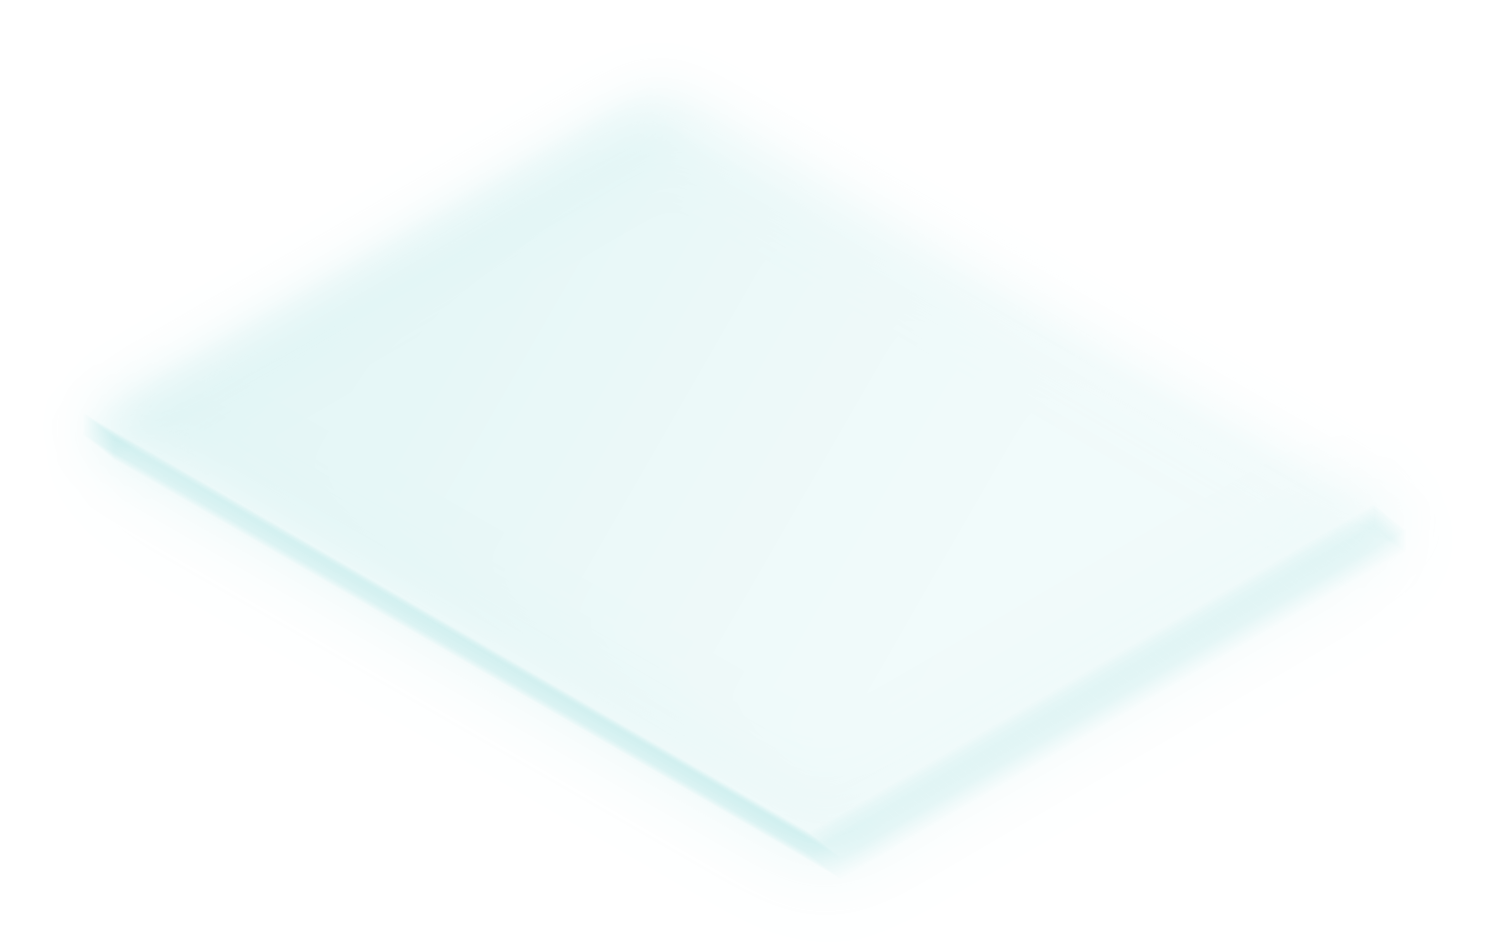
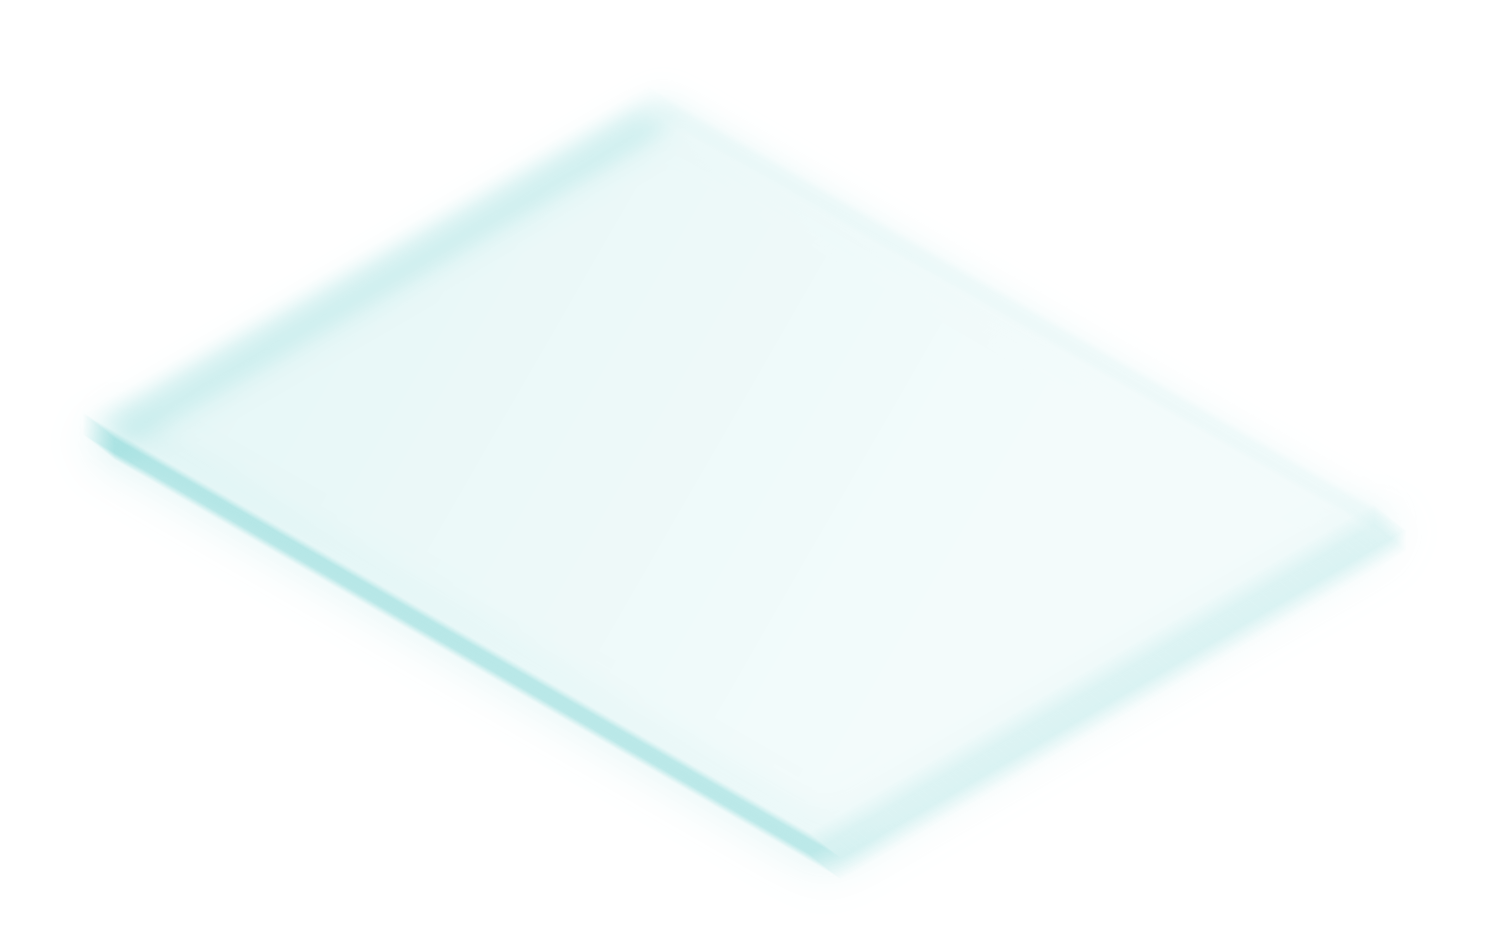
v1012-v1 版本

diff --git a/mockup.html b/mockup.html
@@ -319,6 +319,13 @@
         
       }
 
+      .bg-glass {
+            background: rgba(255, 255, 255, 0.25);   /* 半透明，讓背後透出來 */
+            backdrop-filter: blur(10px) saturate(120%); /* 讓背後模糊並增加對比 */
+            -webkit-backdrop-filter: blur(10px) saturate(120%); /* Safari 相容 */
+            border: 1px solid rgba(255, 255, 255, 0.35);
+            border-radius: 12px;
+      }
 
       </style>
     
@@ -339,7 +346,7 @@
   <body style="visibility: hidden" class="bg-SVGNoise text-IF-text">   
     
     <div id="screen-size-display-tool"   
-          class="fixed top-2 left-8 z-50 
+          class="fixed top-2 left-8 z-[99]
                 w-8 h-8 bg-IF-text-subtle text-center rounded-lg border border-IF-border text-base">
       <div class="block 2xs:hidden">min</div>
       <div class="hidden 2xs:block xs:hidden">2xs</div>
@@ -352,7 +359,7 @@
     </div>
 
     <header id="header" 
-            class="hidden fixed top-0 left-0 z-[60]
+            class=" fixed top-0 left-0 z-[60] 
                    h-12 w-full bg-IF-panel shadow-md">
       <!-- 上方常駐區塊 -->
       <div class="max-w-screen-xl mx-auto  flex items-center justify-between
@@ -366,7 +373,8 @@
         </a>
 
         <!-- 導覽錨點 (桌機版) -->
-        <nav class="hidden gap-8 text-lg text-IF-text
+        <nav class="gap-8 text-lg text-IF-text
+                        hidden
                     md:flex">
           <a href="#advantages" >解決痛點</a>
           <a href="#portfolio" >作品展示</a>
@@ -434,9 +442,9 @@
 
     </header>
 
-    <section id="contact" >
+    <section id="contact" > 
       
-      <!-- 懸浮按鈕 -->
+      <!-- 懸浮按鈕 --> <!--展開特效待調整，不要用兩層-->
       <button id="contactBtn"
               class="group fixed bottom-12  z-40
                      h-16 w-16 rounded-full shadow-md
@@ -472,7 +480,7 @@
                   fixed inset-0 top-12 flex items-center justify-center z-50
                   transition-all duration-300 origin-bottom-right">
         <div  id="contactPanel"
-              class="relative max-h-[80vh] w-[90vw] max-w-xl p-6 rounded-sm shadow-lg bg-white overflow-y-auto">
+              class="relative max-h-[80vh] w-[90vw] max-w-xl p-6 rounded-sm shadow-lg bg-IF-panel overflow-y-auto">
           <button id="PopUpCloseBtn" 
                   class="absolute top-6 right-6 text-2xl
                         text-IF-text-subtle hover:text-IF-text-muted">×</button>
@@ -554,7 +562,7 @@
       <!-- 送出成功彈窗 -->
       <div class="successPopUp
                   fixed top-1/2 left-1/2 -translate-y-1/2  -translate-x-1/2 z-40
-                  w-80 h-40 bg-white rounded-sm shadow-lg p-6 flex flex-col justify-center items-center
+                  w-80 h-40 bg-IF-panel rounded-sm shadow-lg p-6 flex flex-col justify-center items-center
                   transition-all duration-300">
         <button id="successCloseBtn" 
                 class="absolute top-4 right-4 text-2xl
@@ -688,72 +696,53 @@
          class="h-screen snap-y snap-proximity overflow-y-scroll scroll-smooth hide-scrollbar" >
 
       <section id="hero"
-                class="relative w-full h-screen flex-col-center-center snap-start-12 overflow-hidden">
+                class=" relative w-full h-screen flex-col-center-center snap-start-12 overflow-hidden">
 
+        <div class="absolute inset-0 w-full h-full bg-IF-panel opacity-30"></div><!-- 背景 -->
         <!-- 背景圖 -->
-        <div class="relative w-full max-w-screen-xl min-w-[500px] h-screen opacity-70">
-          <div id="hero-line"class="hidden">
-            <div class="w-full h-screen flex-row-between-center hidden md:flex"> 
-              <div class="w-px h-screen bg-gray-300"></div>
+        <div class="relative w-full max-w-screen-xl min-w-[500px] h-full  max-h-[880px]  opacity-70">
+          
 
-              <div class="w-px h-screen bg-gray-300"></div>
-              <div class="w-px h-screen bg-gray-300"></div>
-              <div class="w-px h-screen bg-gray-500"></div>
-              <div class="w-px h-screen bg-gray-300"></div>
-              <div class="w-px h-screen bg-gray-300"></div>
-
-              <div class="w-px h-screen bg-gray-500"></div>
-
-              <div class="w-px h-screen bg-gray-300"></div>
-              <div class="w-px h-screen bg-gray-300"></div>
-              <div class="w-px h-screen bg-gray-500"></div>
-              <div class="w-px h-screen bg-gray-300"></div>
-              <div class="w-px h-screen bg-gray-300"></div>
-
-              <div class="w-px h-screen bg-gray-300"></div>
-            </div>
-          </div>
-
-          <div>
+          <div> <!-- 影子 -->
           
           <img src="./img/hero/item-A_.png" alt="" 
-               class="absolute hero-item  scale-[0.80] md:scale-90 lg:scale-100
+               class="absolute hero-item  scale-[0.80] md:scale-90 lg:scale-100 opacity-50
                       bottom-1/3 translate-y-[600px]               left-1/2 -translate-x-1/2 
                                                                md:left-1/3  ">
 
-          <img src="./img/hero/item-B.png" alt="" 
-               class="absolute hero-item  scale-[0.80] md:scale-90 lg:scale-100 opacity-20
+          <img src="./img/hero/item-B_.png" alt="" 
+               class="absolute hero-item  scale-[0.80] md:scale-90 lg:scale-100 opacity-50
                          bottom-1/4     translate-y-[610px]      right-0       translate-x-[400px]
                                      md:translate-y-[510px]   md:right-1/3  md:translate-x-[670px]
                                      lg:translate-y-[470px]                 lg:translate-x-[720px]"> 
                                      
-          <img src="./img/hero/item-C.png" alt="" 
-               class="absolute hero-item  scale-[0.80] md:scale-90 lg:scale-100 opacity-20 hidden
+          <img src="./img/hero/item-C_.png" alt="" 
+               class="absolute hero-item  scale-[0.80] md:scale-90 lg:scale-100 opacity-50 hidden
                       bottom-1/4      translate-y-[260px]        left-3/4     -translate-x-[200px] 
                                    md:translate-y-[200px]                  md:-translate-x-[170px]   
                                    lg:translate-y-[140px]                  lg:-translate-x-[120px] ">
 
-          <img src="./img/hero/item-D.png" alt="" 
-               class="absolute hero-item  scale-[0.85] md:scale-90 lg:scale-100 opacity-20 
-                      bottom-1/4     translate-y-[340px]        left-1/4     -translate-x-[420px] 
-                                  md:translate-y-[280px]                  md:-translate-x-[500px]    
-                                  lg:translate-y-[240px]                  lg:-translate-x-[600px] "> 
+          <img src="./img/hero/item-D_.png" alt="" 
+               class="absolute hero-item  scale-[0.85] md:scale-90 lg:scale-100 opacity-50
+                      bottom-1/4     translate-y-[440px]        left-1/4     -translate-x-[420px] 
+                                  md:translate-y-[380px]                  md:-translate-x-[500px]    
+                                  lg:translate-y-[340px]                  lg:-translate-x-[600px] "> 
 
-          <img src="./img/hero/item-E.png" alt="" 
-               class="absolute hero-item  scale-[0.80] md:scale-90 lg:scale-100 opacity-20
+          <img src="./img/hero/item-E_.png" alt="" 
+               class="absolute hero-item  scale-[0.80] md:scale-90 lg:scale-100 opacity-50
                       bottom-1/4      translate-y-[520px]        left-1/4      translate-x-[150px] 
                                    md:translate-y-[460px]                   md:translate-x-[180px]    
                                    lg:translate-y-[400px]                   lg:translate-x-[250px] ">
                                   
-          <img src="./img/hero/item-G.png" alt="" 
-               class="absolute hero-item  scale-[0.80] md:scale-90 lg:scale-100 opacity-20
+          <img src="./img/hero/item-G_.png" alt="" 
+               class="absolute hero-item  scale-[0.80] md:scale-90 lg:scale-100 opacity-50
                       bottom-1/4      translate-y-[240px]        left-1/3     -translate-x-[000px]  
                                   md:translate-y-[240px]                   md:translate-x-[200px]      
                                   lg:translate-y-[200px]                   lg:translate-x-[600px] ">                           
 
             
           </div>
-          <div>
+          <div> <!-- 物件 -->
 
             <img src="./img/hero/item-A.png" alt="" 
                 class="absolute hero-item  scale-[0.80] md:scale-90 lg:scale-100 
@@ -833,7 +822,7 @@
                         min-h-screen 
                         md:h-screen-header md:min-h-[600px]">
 
-          <div class="h-12 hidden md:block">  </div>   
+          <div class="h-0 hidden md:block">  </div>   
           
           <div class="">
             <h2>你是否也有這些困擾？</h2>
@@ -846,7 +835,7 @@
 
           </div>
           
-          <div class="py-4">
+          <div class="py-8">
             <p class="text-center text-lg text-IF-text-muted leading-relaxed">
               完成的作品可以像這樣<br>
               ↓
@@ -861,7 +850,7 @@
               advantagesArray.forEach(item => {
                 const card = document.createElement('div');
                 card.className = `
-                    group transition-all bg-white rounded-sm overflow-hidden shadow-lg
+                    group transition-all bg-IF-panel rounded-sm overflow-hidden shadow-lg
                        h-[360px]    max-w-[460px]    cursor-pointer  
                     md:h-[480px] md:max-w-[320px] md:cursor-default
                 `;
@@ -870,17 +859,19 @@
                     <div class="cardCanUp
                                 w-full h p-6 flex flex-col justify-center overflow-hidden object-cover 
                                 transition-transform duration-500
-                                md:group-hover:-translate-y-[280px]
-                                lg:group-hover:-translate-y-[300px]">
+                                md:group-hover:-translate-y-[260px]
+                                lg:group-hover:-translate-y-[315px]">
 
                         <div class="UpDisappear
-                                    w-full overflow-hidden flex items-center justify-center 
+                                    w-full overflow-hidden flex-col-center-center
                                     h-[240px] 
                                     md:group-hover:opacity-0 duration-500   
                                     md:h-[240px] md:mt-6  
                                     lg:h-[280px] ">
-                          <img src="./img/${item.image}" alt="" 
-                               class="max-w-[280px] min-h-[240px] max-h-[280px] object-cover">
+                          <img src="${item.image}" alt="" 
+                               class="max-w-full object-contain 
+                                         h-[240px]
+                                      md:h-auto">
                           
                         </div>
 
@@ -900,7 +891,7 @@
                                   md:text-lg md:opacity-0 
                                   lg:text-xl">
                           <span>${item.content}</span>
-                          <br class="near-md:hidden">
+                          <br>
                           <br>
                           <span class="font-bold text-IF-text-emphasis">${item.emphasis}</span>
                         </p>
@@ -937,7 +928,7 @@
 
         <section id="portfolio"
                  class="w-full
-                        flex-col-center snap-start-12 snap-end
+                        flex-col-center snap-start-12 snap-end 
                         min-h-screen-header
                         md:h-screen-header">
           
@@ -1172,23 +1163,32 @@
         <section id="about"
                  class="w-full min-h-screen-header flex-col-center snap-start-12">
 
-          <h2>為何我能幫你做好<br class="block sm:hidden"> Landing page？</h2>
+          <h2 class="mb-0 sm:mb-4 md:mb-8 ">為何我能幫你做好<br class="block sm:hidden"> Landing page？</h2>
 
           <!-- 文案呈現全範圍 -->
           <div id="about-container" 
                class="flex-col-center-center"> 
             <!-- 自介文案+照片全範圍 -->
             <div class="relative w-full max-w-screen-md overflow-hidden flex justify-center" ><!-- 用 overflow-hidden 避免照片跑出去 -->
+              
+              <div>
+                <img src="./img/hero/item-F.png" alt="" 
+                class="absolute hero-item  scale-[0.60] hidden
+                       top-0 -translate-y-[020px]  left-2/3 -translate-x-[120px]   ">
 
-              <img src="./img/image_material/image_9-16_material.png" alt=""
-                   class="absolute top-0 right-0 w-1/3 object-cover
-                          min-h-full
-                          hidden 2xs:block
-                          "><!-- 照片要手動改 -->
+                <img src="./img/about/Glen.png" alt=""
+                class="absolute object-cover z-20
+                      hidden  2xs:block
+                      w-1/3 min-h-full    top-0 left-2/3 min-w-[180px]
+                                        sm:right-0"><!-- 照片要手動改 -->
+    
 
-              <div class="p-4  bg-IF-panel flex
-                              mt-0     rounded-none
-                           xs:mt-16  
+              </div>
+
+
+              <div class="p-8  bg-IF-panel flex
+                              mt-24     rounded-none
+                           xs:mt-24  
                           mdx:mt-24 md:rounded-md  "> <!-- 白底＆留空 -->
                 <div id="about-content" 
                      class="    w-full
@@ -1203,7 +1203,7 @@
               我執行過的專案跟任務角色：
             </p> 
 
-             <div class="relative mb-12 w-full overflow-hidden"> <!-- Ach全範圍 -->
+             <div id="ach-slider-container" class="relative mb-12 w-full overflow-hidden"> <!-- Ach全範圍 -->
                
                  <div id="about-AchSlider" 
                       class="gap-4 px-[calc((100vw-280px)/2)] flex
@@ -1288,6 +1288,28 @@
                 behavior: 'smooth'
               });
             });
+
+            // 鼠標滾輪橫向滾動功能
+            const sliderContainer = document.getElementById('ach-slider-container');
+            let scrollTimeout;
+            
+            sliderContainer.addEventListener('wheel', (e) => {
+              e.preventDefault(); // 阻止默認的垂直滾動
+              
+              // 滾動時暫時禁用 snap
+              slider.style.scrollSnapType = 'none';
+              
+              // 將垂直滾動轉為水平滾動
+              slider.scrollLeft += e.deltaY;
+              
+              // 清除之前的 timeout
+              clearTimeout(scrollTimeout);
+              
+              // 滾動停止後 150ms 恢復 snap
+              scrollTimeout = setTimeout(() => {
+                slider.style.scrollSnapType = 'x mandatory';
+              }, 150);
+            }, { passive: false }); // passive: false 才能使用 preventDefault
 
           </script>
 
@@ -1407,7 +1429,6 @@
               });
 
               step_Content.forEach(div => observer.observe(div));
-
 
             }
           

diff --git a/prototype/background.html b/prototype/background.html
@@ -102,13 +102,34 @@
             mix-blend-mode: overlay;
         }
         
-        
+        .glass {
+            background: rgba(255, 255, 255, 0.15);   /* 半透明，讓背後透出來 */
+            backdrop-filter: blur(10px) saturate(120%); /* 讓背後模糊並增加對比 */
+            -webkit-backdrop-filter: blur(10px) saturate(120%); /* Safari 相容 */
+            border: 1px solid rgba(255, 255, 255, 0.25);
+            border-radius: 12px;
+        }
+
+        .background {
+  background: linear-gradient(120deg, #21a8d1, #ffd400);
+  height: 100vh;
+  display: flex;
+  justify-content: center;
+  align-items: center;
+}
 
     </style>
   </head>
 
 
   <body class="h-screen flex flex-col items-center justify-center">
+
+    <div class="background">
+        <div class="glass">
+          <h2>毛玻璃效果</h2>
+          <p>這裡的背景會被模糊。</p>
+        </div>
+      </div>
 
     <div class="bg-Frost aBlock flex justify-center items-center">
         bg-Frost
